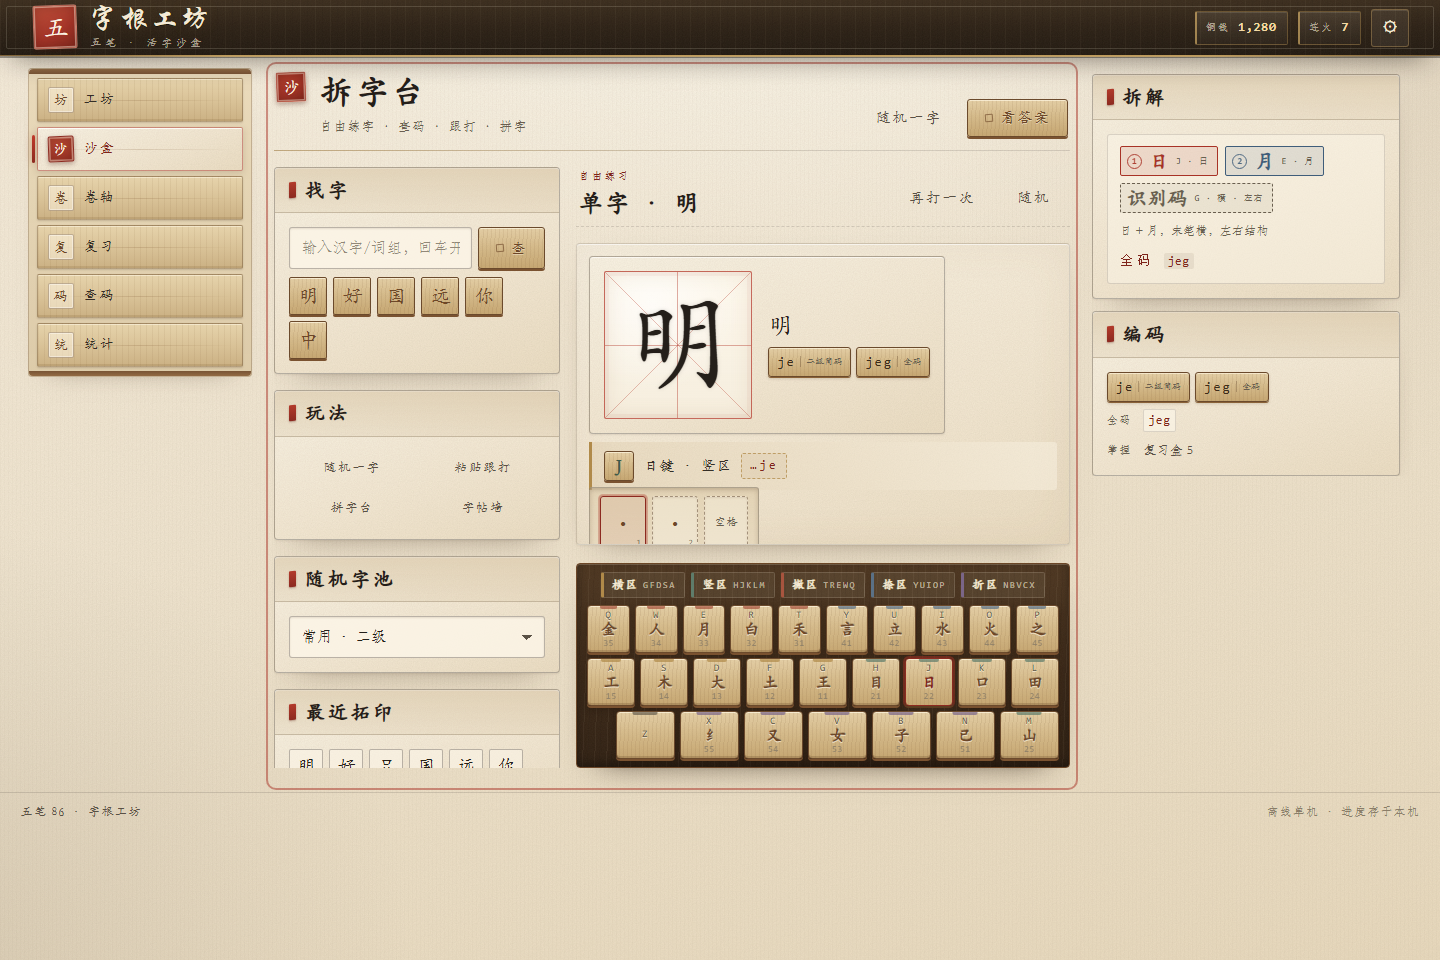
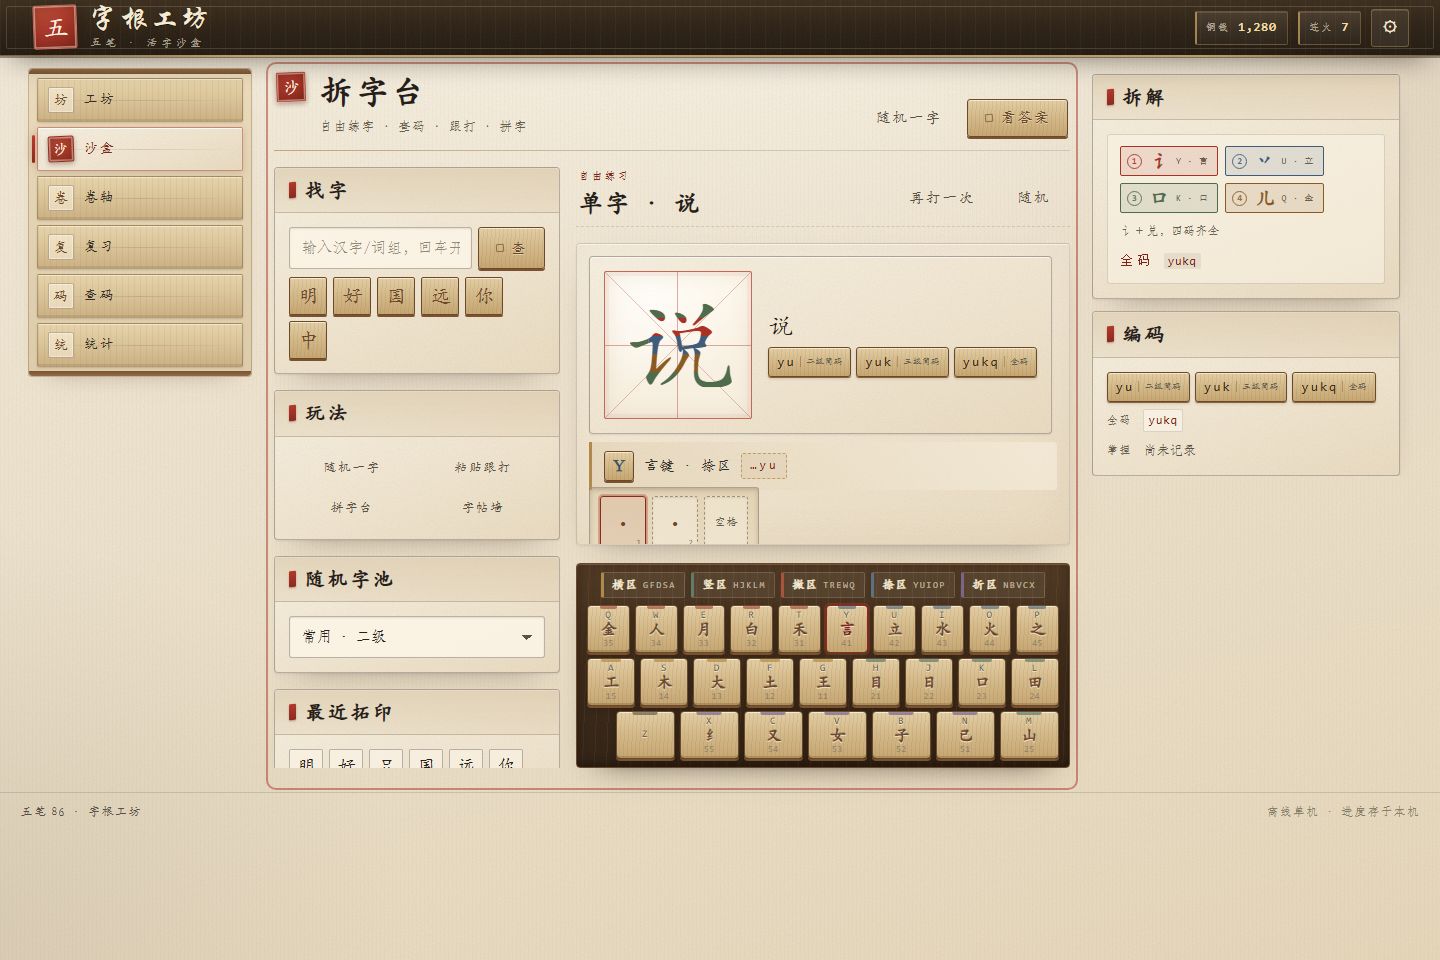
整字按字根分色

diff --git a/js/ui/charCard.js b/js/ui/charCard.js
@@ -4,6 +4,259 @@
   var U = ZG.Util;
   var UI = ZG.UI;
   var h = U.el;
+  var SVG_NS = "http://www.w3.org/2000/svg";
+
+  function svgNode(tag, attrs) {
+    var node = document.createElementNS(SVG_NS, tag);
+    if (attrs) Object.keys(attrs).forEach(function (k) { node.setAttribute(k, attrs[k]); });
+    return node;
+  }
+
+  function rect(x, y, w, height, root, late) {
+    return { x: x, y: y, w: w, h: height, root: root, late: !!late };
+  }
+
+  function frac(box, fx, fy, fw, fh, root, late) {
+    return rect(box.x + box.w * fx, box.y + box.h * fy, box.w * fw, box.h * fh, root, late);
+  }
+
+  function ring(root, box, inset) {
+    return { ring: true, root: root, x: box.x, y: box.y, w: box.w, h: box.h, inset: inset === undefined ? 0.12 : inset };
+  }
+
+  var inkCache = {};
+  function inkBox(text) {
+    if (inkCache[text]) return inkCache[text];
+    try {
+      var canvas = document.createElement("canvas");
+      canvas.width = 100;
+      canvas.height = 100;
+      var ctx = canvas.getContext("2d", { willReadFrequently: true });
+      var family = getComputedStyle(document.documentElement).getPropertyValue("--font-kai").trim() || "STKaiti, KaiTi, serif";
+      ctx.clearRect(0, 0, 100, 100);
+      ctx.font = "74px " + family;
+      ctx.textAlign = "center";
+      ctx.textBaseline = "middle";
+      ctx.fillStyle = "#000";
+      ctx.fillText(text, 50, 50);
+      var data = ctx.getImageData(0, 0, 100, 100).data;
+      var minX = 100, minY = 100, maxX = -1, maxY = -1;
+      for (var y = 0; y < 100; y++) {
+        for (var x = 0; x < 100; x++) {
+          if (data[(y * 100 + x) * 4 + 3] > 18) {
+            if (x < minX) minX = x;
+            if (y < minY) minY = y;
+            if (x > maxX) maxX = x;
+            if (y > maxY) maxY = y;
+          }
+        }
+      }
+      if (maxX < minX || maxY < minY) return null;
+      var box = { x: minX, y: minY, w: maxX - minX + 1, h: maxY - minY + 1 };
+      inkCache[text] = box;
+      return box;
+    } catch (e) {
+      return null;
+    }
+  }
+
+  /* 整字分色：同一个字模裁成若干结构区，每区仍显示原字的笔画。
+     不是逐笔画分割，而是按左右/上下/包围的字形骨架近似。 */
+  var ENCLOSING = {
+    "囗": 1, "口": 1, "门": 1, "冂": 1, "匚": 1, "勹": 1, "几": 1,
+    "辶": 1, "广": 1, "疒": 1, "尸": 1, "弋": 1, "戈": 1, "气": 1
+  };
+  var LEFT_RADICAL = {
+    "讠": 1, "亻": 1, "氵": 1, "扌": 1, "纟": 1, "木": 1, "王": 1, "日": 1,
+    "月": 1, "女": 1, "口": 1, "土": 1, "石": 1, "车": 1, "钅": 1, "贝": 1,
+    "马": 1, "鱼": 1, "鸟": 1, "虫": 1, "礻": 1, "衤": 1, "言": 1, "金": 1,
+    "食": 1, "饣": 1, "目": 1, "田": 1, "山": 1, "弓": 1, "子": 1, "耳": 1,
+    "足": 1, "身": 1, "酉": 1, "里": 1, "黑": 1, "鼓": 1
+  };
+  var TOP_RADICAL = { "宀": 1, "艹": 1, "竹": 1, "⺮": 1, "雨": 1, "穴": 1, "冖": 1, "⺌": 1, "广": 1, "疒": 1, "尸": 1, "气": 1 };
+
+  function findEnclosure(roots) {
+    for (var i = 0; i < roots.length; i++) {
+      if (ENCLOSING[roots[i][0]]) return i;
+    }
+    return -1;
+  }
+
+  function specialLayout(text, roots, n, box) {
+    switch (text) {
+      case "想": /* 木/目 在上，心在下 */
+        return [frac(box, 0, 0, 0.5, 0.5, 0), frac(box, 0.5, 0, 0.5, 0.5, 1), frac(box, 0, 0.5, 1, 0.5, 2)];
+      case "花": /* 艹 在上，亻/匕 在下 */
+        return [frac(box, 0, 0, 1, 0.4, 0), frac(box, 0, 0.4, 0.5, 0.6, 1), frac(box, 0.5, 0.4, 0.5, 0.6, 2)];
+      case "动":
+      case "别":
+      case "以": /* 左二右一 */
+        return [frac(box, 0, 0, 0.48, 0.5, 0), frac(box, 0, 0.5, 0.48, 0.5, 1), frac(box, 0.48, 0, 0.52, 1, 2)];
+      case "跑":
+      case "路": /* 左二右二 */
+        return [frac(box, 0, 0, 0.46, 0.5, 0), frac(box, 0, 0.5, 0.46, 0.5, 1),
+          frac(box, 0.46, 0, 0.54, 0.5, 2), frac(box, 0.46, 0.5, 0.54, 0.5, 3)];
+      case "国": /* 囗 外框；王 在内；丶 在右下 */
+        return [ring(0, box, 0.18), frac(box, 0.18, 0.18, 0.64, 0.64, 1),
+          frac(box, 0.70, 0.66, 0.18, 0.18, 2, true)];
+      case "主": /* 丶 在上；王 在下 */
+        return [frac(box, 0, 0, 1, 1, 1), frac(box, 0.42, 0.02, 0.16, 0.16, 0, true)];
+      case "术": /* 木 为主；丶 在右下 */
+        return [frac(box, 0, 0, 1, 1, 0), frac(box, 0.62, 0.62, 0.16, 0.16, 1, true)];
+      case "为": /* 两丶一力 */
+        return [frac(box, 0, 0, 1, 1, 1), frac(box, 0.16, 0.04, 0.14, 0.14, 0, true),
+          frac(box, 0.70, 0.70, 0.14, 0.14, 2, true)];
+      case "笔": /* 竹 在上，毛 在下三叠 */
+        return [frac(box, 0, 0, 1, 0.42, 0), frac(box, 0, 0.42, 1, 0.193, 1),
+          frac(box, 0, 0.613, 1, 0.193, 2), frac(box, 0, 0.806, 1, 0.194, 3)];
+      default:
+        return null;
+    }
+  }
+
+  /* 左偏旁的实际宽度差别很大：讠/亻/氵很窄，日/月/女王接近一半。
+     用固定 38% 会把“说”的丷左点切进左区，因此按首字根给一个近似宽度。 */
+  var LEFT_WIDTH = {
+    "讠": 0.28, "亻": 0.28, "氵": 0.30, "扌": 0.32, "纟": 0.30, "忄": 0.30,
+    "土": 0.32, "王": 0.34, "木": 0.38, "日": 0.46, "月": 0.46, "口": 0.36,
+    "女": 0.46, "石": 0.40, "车": 0.40, "钅": 0.32, "贝": 0.38, "马": 0.38,
+    "鱼": 0.40, "鸟": 0.42, "虫": 0.38, "礻": 0.32, "衤": 0.34, "言": 0.40,
+    "金": 0.40, "禾": 0.40, "白": 0.42, "田": 0.44, "目": 0.42, "山": 0.36,
+    "火": 0.36, "立": 0.34, "足": 0.38, "走": 0.38, "弓": 0.34, "子": 0.34
+  };
+
+  function leftRatio(glyph, n) {
+    if (LEFT_WIDTH[glyph]) return LEFT_WIDTH[glyph];
+    return n >= 3 ? 0.38 : 0.5;
+  }
+
+  function layoutFor(text, deco, box) {
+    var roots = deco.roots || [];
+    var n = roots.length;
+    if (!n) return null;
+    if (n === 1) return [frac(box, 0, 0, 1, 1, 0)];
+
+    var special = specialLayout(text, roots, n, box);
+    if (special) return special;
+
+    var structure = deco.idc && deco.idc.structure;
+    if (!structure) {
+      if (findEnclosure(roots) >= 0) structure = "杂合";
+      else if (LEFT_RADICAL[roots[0][0]]) structure = "左右";
+      else if (TOP_RADICAL[roots[0][0]]) structure = "上下";
+      else return null;
+    }
+
+    var out = [];
+    var i;
+    if (structure === "左右") {
+      var left = leftRatio(roots[0][0], n);
+      var right = 1 - left;
+      if (n === 2) {
+        out.push(frac(box, 0, 0, left, 1, 0), frac(box, left, 0, right, 1, 1));
+      } else if (n === 3) {
+        out.push(frac(box, 0, 0, left, 1, 0), frac(box, left, 0, right, 0.5, 1), frac(box, left, 0.5, right, 0.5, 2));
+      } else {
+        out.push(frac(box, 0, 0, left, 1, 0));
+        for (i = 1; i < n; i++) out.push(frac(box, left, (i - 1) / (n - 1), right, 1 / (n - 1), i));
+      }
+      return out;
+    }
+
+    if (structure === "上下") {
+      if (n === 2) {
+        out.push(frac(box, 0, 0, 1, 0.5, 0), frac(box, 0, 0.5, 1, 0.5, 1));
+      } else {
+        for (i = 0; i < n; i++) out.push(frac(box, 0, i / n, 1, 1 / n, i));
+      }
+      return out;
+    }
+
+    /* 杂合：包围字根只取外缘一圈，内区留空给其余字根。 */
+    var outer = findEnclosure(roots);
+    if (outer >= 0) {
+      /* 口/囗/门/几 这类方框笔画较厚，环要更宽；辶/广/尸 只取一条边，环窄一些。 */
+      var thin = { "辶": 1, "廴": 1, "广": 1, "疒": 1, "尸": 1, "弋": 1, "戈": 1, "气": 1 };
+      var inset = thin[roots[outer][0]] ? 0.10 : 0.18;
+      out.push(ring(outer, box, inset));
+      var rest = [];
+      for (i = 0; i < n; i++) if (i !== outer) rest.push(i);
+      if (rest.length === 1) {
+        out.push(frac(box, inset, inset, 1 - inset * 2, 1 - inset * 2, rest[0]));
+      } else if (rest.length === 2) {
+        out.push(frac(box, inset, inset, 1 - inset * 2, (1 - inset * 2) / 2, rest[0]));
+        out.push(frac(box, inset, 0.5, 1 - inset * 2, (1 - inset * 2) / 2, rest[1]));
+      } else {
+        for (i = 0; i < rest.length; i++) {
+          out.push(frac(box, inset, inset + i * (1 - inset * 2) / rest.length,
+            1 - inset * 2, (1 - inset * 2) / rest.length, rest[i]));
+        }
+      }
+      return out;
+    }
+
+    if (n === 2) {
+      out.push(frac(box, 0, 0, 1, 0.5, 0), frac(box, 0, 0.5, 1, 0.5, 1));
+      return out;
+    }
+    if (n === 3) {
+      for (i = 0; i < 3; i++) out.push(frac(box, 0, i / 3, 1, 1 / 3, i));
+      return out;
+    }
+    return null;
+  }
+
+  function coloredGlyph(text, deco) {
+    var box = inkBox(text);
+    if (!box) return null;
+    var regions = layoutFor(text, deco, box);
+    if (!regions) return null;
+    var uid = U.uid("glyph");
+    var svg = svgNode("svg", {
+      class: "char-glyph-svg",
+      viewBox: "0 0 100 100",
+      role: "img",
+      "aria-label": "整字按字根分色：" + (deco.roots || []).map(function (r) { return r[0]; }).join("、")
+    });
+    var defs = svgNode("defs");
+    var layers = [];
+    regions.forEach(function (r, idx) {
+      var id = uid + "-" + idx;
+      var cp = svgNode("clipPath", { id: id, clipPathUnits: "userSpaceOnUse" });
+      if (r.ring) {
+        var ix = r.x + r.w * r.inset;
+        var iy = r.y + r.h * r.inset;
+        var iw = r.w * (1 - r.inset * 2);
+        var ih = r.h * (1 - r.inset * 2);
+        cp.appendChild(svgNode("path", {
+          d: "M" + r.x + " " + r.y + " H" + (r.x + r.w) + " V" + (r.y + r.h) + " H" + r.x +
+            " Z M" + ix + " " + iy + " V" + (iy + ih) + " H" + (ix + iw) + " V" + iy + " Z",
+          "clip-rule": "evenodd"
+        }));
+      } else {
+        cp.appendChild(svgNode("rect", {
+          x: r.x, y: r.y, width: r.w, height: r.h
+        }));
+      }
+      defs.appendChild(cp);
+      layers.push({ region: r, clip: id });
+    });
+    svg.appendChild(defs);
+    var ordered = layers.filter(function (l) { return !l.region.late; })
+      .concat(layers.filter(function (l) { return l.region.late; }));
+    ordered.forEach(function (layer) {
+      var g = svgNode("g", { "clip-path": "url(#" + layer.clip + ")" });
+      var t = svgNode("text", {
+        x: 50, y: 50, "text-anchor": "middle", "dominant-baseline": "central",
+        "font-size": 74, class: "glyph-char"
+      });
+      t.style.fill = "var(--root-c" + ((layer.region.root % 4) + 1) + ")";
+      t.textContent = text;
+      g.appendChild(t);
+      svg.appendChild(g);
+    });
+    return svg;
+  }
 
   function charCard(text, opts) {
     opts = opts || {};
@@ -12,14 +265,15 @@
     if (opts.mastery !== undefined) {
       box = h("span", { class: "char-mastery" }, "盒 " + opts.mastery);
     }
+    var deco = window.ZG_DECOMPOSITIONS && ZG_DECOMPOSITIONS[text];
+    var glyph = (!opts.compact && deco) ? coloredGlyph(text, deco) : null;
+    if (!glyph) glyph = h("span", { class: "char-glyph" }, text);
     var node = h("div", {
       class: "char-card" + (opts.compact ? " char-card-compact" : "") + (opts.clickable ? " is-clickable" : ""),
       role: opts.clickable ? "button" : null,
       tabindex: opts.clickable ? "0" : null
     },
-      h("div", { class: "char-grid" },
-        h("span", { class: "char-glyph" }, text)
-      ),
+      h("div", { class: "char-grid" }, glyph),
       h("div", { class: "char-meta" },
         h("span", { class: "char-text" }, text),
         codes && codes.length ? UI.codeChips(codes, { target: opts.target, text: text }) : h("span", { class: "muted" }, "词库未收录"),

diff --git a/css/components.css b/css/components.css
@@ -1210,6 +1210,25 @@
   text-shadow: 0 0 1px rgba(36, 31, 26, 0.55), 0 0 5px rgba(36, 31, 26, 0.12);
 }
 
+.char-glyph-svg {
+  position: relative;
+  z-index: 1;
+  display: block;
+  width: 100%;
+  height: 100%;
+  overflow: visible;
+  pointer-events: none;
+}
+
+.char-glyph-svg .glyph-char {
+  font-family: var(--font-kai);
+  font-weight: 400;
+  letter-spacing: 0;
+  paint-order: stroke fill;
+  stroke: rgba(36, 31, 26, 0.06);
+  stroke-width: 0.5;
+}
+
 .char-card.is-clickable {
   cursor: pointer;
   transition: transform var(--dur-2) var(--ease-out), box-shadow var(--dur-2) var(--ease-out),

diff --git a/README.md b/README.md
@@ -27,7 +27,7 @@
   - 四：三级简码、全码、末笔识别码（15 格矩阵）
   - 五：二字/三字/四字/多字词组
   - 六：三篇 50~80 字跟打短文
-- **沙盒**：查字、随机一字、整段跟打、拼字、字帖墙；显示简码/全码、逐键字根域、精选拆解；拆解按第 1~4 个字根分色编号。
+- **沙盒**：查字、随机一字、整段跟打、拼字、字帖墙；显示简码/全码、逐键字根域、精选拆解；整字与拆解按第 1~4 个字根分色编号（结构近似分区）。
 - **查码**：按字查、按码查（重码）、二十五键图鉴。
 - **复习**：SRS 盒子（10 分钟 / 1 天 / 3 天 / 7 天 / 21 天），每日一练。
 - **养成**：XP、连击、星级、8 件工坊摆设、10 个成就、12 周热力图。
@@ -83,6 +83,6 @@ docs/screenshots/     README 预览图
 ## 已知限制
 
 - 只做五笔 86；98/新世纪不在本版。
-- 拆解仅覆盖 120 个精选字，其余字提供「逐键字根域」提示，不假装完整拆解。
+- 拆解仅覆盖 120 个精选字，其余字提供「逐键字根域」提示，不假装完整拆解；整字分色按结构近似分区，不声称逐笔拆分。
 - 单机单用户，进度存在浏览器 `localStorage`（键名 `zg.v1`）；换浏览器/清缓存会丢失，可在设置中导出/导入 JSON。
 - 触屏可浏览，但练习按物理键盘设计。
